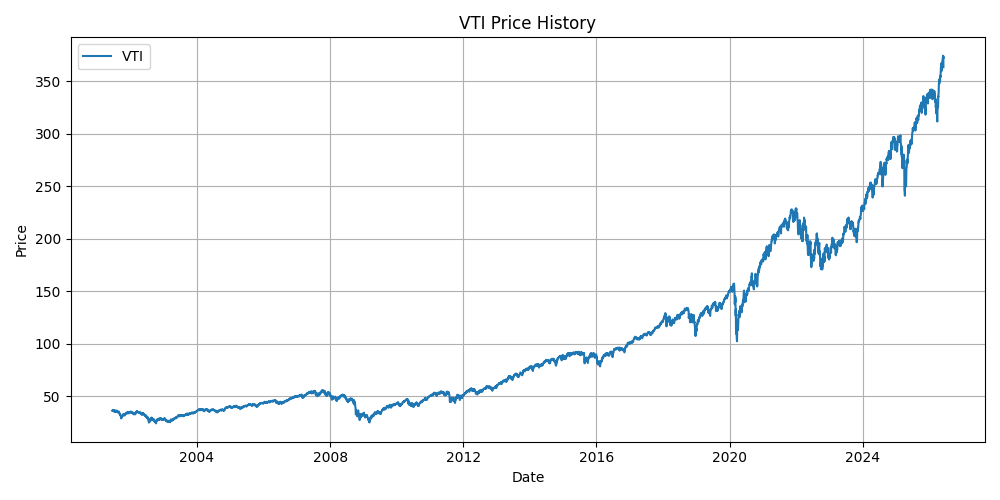
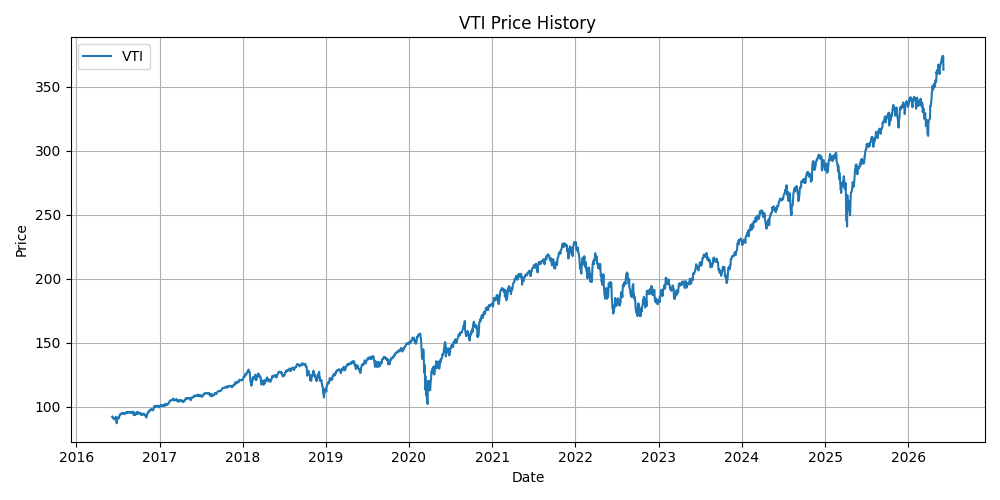
mod

diff --git a/backtest.py b/backtest.py
@@ -242,15 +242,15 @@ if __name__ == "__main__":
     
     plot_price_history(
         ticker=ticker,
-        years=30,
+        years=10,
         output_file=f"price.png",
     ) 
 
     df_dca = backtest_dip(
         ticker=ticker,
-        monthly_investment=20_000,
+        monthly_investment=10_000,
         years=5,
-        end_date="2009-12-31",
+        end_date="2025-12-31",
         dip_levels=None,  # 単純積み立て
     )
 
@@ -258,10 +258,10 @@ if __name__ == "__main__":
         ticker=ticker,
         monthly_investment=0,
         years=5,
-        end_date="2009-12-31",
+        end_date="2025-12-31",
         dip_levels=[
-            (-10, 100_000),
-            (-20, 200_000),
+            (-10, 150_000),
+            (-20, 300_000),
         ],
     )
 

diff --git a/main.py b/main.py
@@ -101,4 +101,4 @@ if __name__ == "__main__":
     print_report(tickers)
 
     # 過去日付レポート例
-    # print_report(tickers, report_date="2024-08-05")
+    print_report(tickers, report_date="2024-08-05")